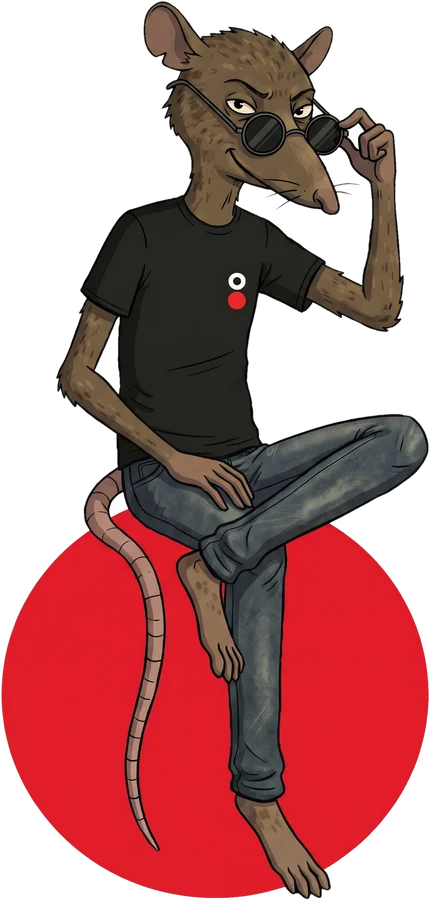
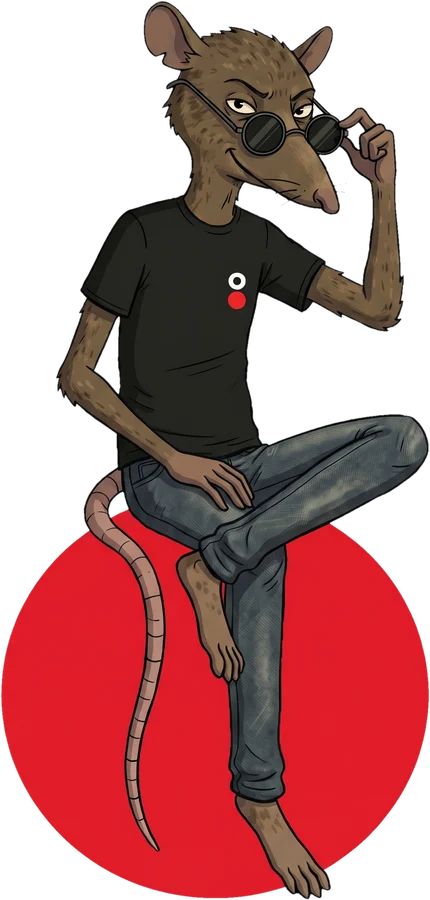
Enlaces: recuadro 'Nueva web' con Espid apoyado; limpiar blancos de Espid con gafas

diff --git a/links/index.html b/links/index.html
@@ -15,7 +15,7 @@
 <link rel="icon" href="../assets/brand/favicon.svg?v=3"><link rel="apple-touch-icon" href="../assets/brand/favicon.svg?v=3">
 <link rel="preload" href="../assets/fonts/GCEpicPro-ExtraBold.woff2" as="font" type="font/woff2" crossorigin>
 <link rel="preload" href="../assets/fonts/ClashDisplay-Regular.woff2" as="font" type="font/woff2" crossorigin>
-<link rel="stylesheet" href="../assets/css/site.css?v=163">
+<link rel="stylesheet" href="../assets/css/site.css?v=164">
 <meta name="robots" content="noindex"><meta name="theme-color" content="#121212"><style>header.top,footer.pie,.wa-flot,.menu-movil{display:none!important}body{background:#121212}</style>
 </head>
 <body>
@@ -38,6 +38,10 @@
     <img class="ln-hero-f" src="../assets/links/portada-360.webp" alt="Daniel Espinoza graba con una cámara 360 el paso de un buggy de rally frente al público" width="1200" height="800" fetchpriority="high">
     <img class="ln-logo" src="../assets/brand/logo-blanco.png?v=3" alt="Pro Motion Sport Marketing" width="900" height="183">
     <p class="ln-kicker">Cuenca · Ecuador</p>
+    <a class="ln-web" href="../index.html?utm_source=instagram&utm_medium=bio&utm_campaign=links">
+      <span class="ln-web-card"><em class="ln-web-tag">¡Nueva web!</em><small>¿Listo? Acá te espero.</small><b>www.promotionec.com</b><span class="ln-web-ir">Entrar <svg viewBox="0 0 24 24" aria-hidden="true"><path d="M7 17 17 7M9 7h8v8" fill="none" stroke="currentColor" stroke-width="2.6" stroke-linecap="round" stroke-linejoin="round"/></svg></span></span>
+      <img src="../assets/img/espid_lean.webp?v=2" alt="" width="498" height="900">
+    </a>
     <h1 class="ln-tag">Un auspicio no se pide, <span>se negocia.</span></h1>
   </header>
 
@@ -89,7 +93,7 @@
   <footer class="ln-pie">
     <a class="ln-osado" href="#" data-wa="Hola Daniel, vengo de tu página de enlaces. Quiero crear oportunidades para mi proyecto." aria-label="Escríbenos por WhatsApp">
       <span class="ln-osado-globo">¿Creamos la tuya? <b>Escríbenos »</b></span>
-      <img src="../assets/img/espid_gafas.webp?v=2" alt="Espid sentado sobre el círculo rojo, bajándose las gafas" width="430" height="900" loading="lazy">
+      <img src="../assets/img/espid_gafas.webp?v=3" alt="Espid sentado sobre el círculo rojo, bajándose las gafas" width="430" height="900" loading="lazy">
     </a>
     <p class="ln-destaca">No esperamos oportunidades. <span>Las creamos.</span></p>
     <nav class="ln-redes" aria-label="Redes sociales">
@@ -106,7 +110,7 @@
     <img src="../assets/img/espid_present.webp?v=2" alt="" width="459" height="900">
   </button>
 </main>
-<script type="application/json" id="ln-guia">{"hero": ["../assets/img/espid_present.webp?v=2", ["¡Hola! Soy Espid. Te muestro todo en un minuto.", "Tócame cuando quieras otra pista."]], "podcast": ["../assets/img/espid_binoculars.webp?v=2", ["Este episodio está buenísimo. Dale play.", "Pablo entrena 5 Ironmans sin ver. Sí, sin ver."]], "dx": ["../assets/img/espid_point.webp?v=2", ["Empieza aquí: 3 pasos y te digo en qué estado está tu proyecto.", "Es gratis y el resultado es tuyo."]], "perfil": ["../assets/img/espid_lean.webp?v=2", ["Elige tu camino, yo te espero aquí.", "¿Deportista, marca o evento?"]], "trabajo": ["../assets/img/espid_bino_sit.webp?v=2", ["Todo esto ya está publicado. Mira las reproducciones.", "Desliza, hay más."]], "aprende": ["../assets/img/espid_calc.webp?v=2", ["Lo gratis también se aprovecha.", "La guía tiene el capítulo 1 libre."]]}</script>
+<script type="application/json" id="ln-guia">{"hero": ["../assets/img/espid_present.webp?v=2", ["Soy Espid. Te acompaño mientras bajas.", "Tócame cuando quieras otra pista."]], "podcast": ["../assets/img/espid_binoculars.webp?v=2", ["Este episodio está buenísimo. Dale play.", "Pablo entrena 5 Ironmans sin ver. Sí, sin ver."]], "dx": ["../assets/img/espid_point.webp?v=2", ["Empieza aquí: 3 pasos y te digo en qué estado está tu proyecto.", "Es gratis y el resultado es tuyo."]], "perfil": ["../assets/img/espid_lean.webp?v=2", ["Elige tu camino, yo te espero aquí.", "¿Deportista, marca o evento?"]], "trabajo": ["../assets/img/espid_bino_sit.webp?v=2", ["Todo esto ya está publicado. Mira las reproducciones.", "Desliza, hay más."]], "aprende": ["../assets/img/espid_calc.webp?v=2", ["Lo gratis también se aprovecha.", "La guía tiene el capítulo 1 libre."]]}</script>
 <script>
 (function(){
   var v=document.querySelector('.ln-video');
@@ -139,10 +143,11 @@
   if('IntersectionObserver' in window){
     var io2=new IntersectionObserver(function(es){es.forEach(function(e){ if(e.isIntersecting && e.target.dataset.guia!==actual) decir(e.target.dataset.guia); });},{rootMargin:'-45% 0px -45% 0px'});
     document.querySelectorAll('[data-guia]').forEach(function(s){io2.observe(s);});
-    var io3=new IntersectionObserver(function(es){ btn.classList.toggle('fuera', es[0].isIntersecting); },{threshold:.15});
-    io3.observe(document.querySelector('.ln-pie'));
+    var vis={};
+    var io3=new IntersectionObserver(function(es){ es.forEach(function(e){ vis[e.target.className]=e.isIntersecting; }); btn.classList.toggle('fuera', Object.keys(vis).some(function(k){return vis[k];})); },{threshold:.15});
+    io3.observe(document.querySelector('.ln-pie')); io3.observe(document.querySelector('.ln-web'));
   }
-  setTimeout(function(){ if(!actual) decir('hero'); },900);
+  
 })();
 </script>
 

diff --git a/assets/css/site.css b/assets/css/site.css
@@ -4029,6 +4029,15 @@ h1.epic,h2.epic,h3.epic{padding-top:.12em}
 .ln-hero .ln-logo{margin-top:-34px;position:relative}
 .ln-logo{width:250px;height:auto;margin:0 auto}
 .ln-kicker{font-size:11px;letter-spacing:.32em;text-transform:uppercase;opacity:.75;margin-top:12px}
+.ln-web{position:relative;display:flex;align-items:flex-start;max-width:340px;margin:10px auto 6px;text-align:left}
+.ln-web-card{position:relative;flex:1;display:flex;flex-direction:column;gap:4px;margin-top:46px;padding:16px 16px 14px;background:var(--hueso);color:var(--grafito);border:2.5px solid var(--grafito);border-radius:14px;box-shadow:5px 5px 0 var(--berry);transition:transform .15s,box-shadow .15s}
+.ln-web:hover .ln-web-card{transform:translate(-2px,-2px);box-shadow:7px 7px 0 var(--berry)}
+.ln-web-tag{position:absolute;left:12px;top:-15px;font-style:normal;font-family:var(--mk);font-size:16px;color:var(--hueso);background:var(--berry);padding:4px 10px 3px;border-radius:6px;transform:rotate(-4deg);animation:ln-flota 3s ease-in-out infinite}
+.ln-web-card small{font-size:13px;opacity:.75;margin-top:6px}
+.ln-web-card b{font-family:var(--epic);font-size:17px;line-height:1.1;white-space:nowrap;padding-top:.12em}
+.ln-web-ir{display:flex;align-items:center;gap:6px;font-size:13px;font-weight:700;color:var(--berry)}
+.ln-web-ir svg{width:16px;height:16px}
+.ln-web img{flex:none;width:80px;height:auto;margin-left:-16px;position:relative}
 .ln-tag{font-family:var(--epic);font-weight:800;text-transform:uppercase;font-size:27px;line-height:1.12;margin:20px auto 0;max-width:360px;padding-top:.12em}
 .ln-tag span{display:inline-block;background:var(--berry);color:var(--hueso);padding:3px 10px 0;transform:rotate(-2deg);margin-top:4px}
 /* episodio sobre resplandor rojo */

diff --git a/academy/index.html b/academy/index.html
@@ -15,7 +15,7 @@
 <link rel="icon" href="../assets/brand/favicon.svg?v=3"><link rel="apple-touch-icon" href="../assets/brand/favicon.svg?v=3">
 <link rel="preload" href="../assets/fonts/GCEpicPro-ExtraBold.woff2" as="font" type="font/woff2" crossorigin>
 <link rel="preload" href="../assets/fonts/ClashDisplay-Regular.woff2" as="font" type="font/woff2" crossorigin>
-<link rel="stylesheet" href="../assets/css/site.css?v=163">
+<link rel="stylesheet" href="../assets/css/site.css?v=164">
 <link rel="preconnect" href="https://fonts.googleapis.com"><link href="https://fonts.googleapis.com/css2?family=Caveat+Brush&display=swap" rel="stylesheet">
 </head>
 <body>

diff --git a/admin/accesos/index.html b/admin/accesos/index.html
@@ -15,7 +15,7 @@
 <link rel="icon" href="../../assets/brand/favicon.svg?v=3"><link rel="apple-touch-icon" href="../../assets/brand/favicon.svg?v=3">
 <link rel="preload" href="../../assets/fonts/GCEpicPro-ExtraBold.woff2" as="font" type="font/woff2" crossorigin>
 <link rel="preload" href="../../assets/fonts/ClashDisplay-Regular.woff2" as="font" type="font/woff2" crossorigin>
-<link rel="stylesheet" href="../../assets/css/site.css?v=163">
+<link rel="stylesheet" href="../../assets/css/site.css?v=164">
 <meta name="robots" content="noindex, nofollow">
 </head>
 <body>

diff --git a/pago/respuesta/index.html b/pago/respuesta/index.html
@@ -15,7 +15,7 @@
 <link rel="icon" href="../../assets/brand/favicon.svg?v=3"><link rel="apple-touch-icon" href="../../assets/brand/favicon.svg?v=3">
 <link rel="preload" href="../../assets/fonts/GCEpicPro-ExtraBold.woff2" as="font" type="font/woff2" crossorigin>
 <link rel="preload" href="../../assets/fonts/ClashDisplay-Regular.woff2" as="font" type="font/woff2" crossorigin>
-<link rel="stylesheet" href="../../assets/css/site.css?v=163">
+<link rel="stylesheet" href="../../assets/css/site.css?v=164">
 <meta name="robots" content="noindex">
 </head>
 <body>

diff --git a/promatch/formulario/index.html b/promatch/formulario/index.html
@@ -15,7 +15,7 @@
 <link rel="icon" href="../../assets/brand/favicon.svg?v=3"><link rel="apple-touch-icon" href="../../assets/brand/favicon.svg?v=3">
 <link rel="preload" href="../../assets/fonts/GCEpicPro-ExtraBold.woff2" as="font" type="font/woff2" crossorigin>
 <link rel="preload" href="../../assets/fonts/ClashDisplay-Regular.woff2" as="font" type="font/woff2" crossorigin>
-<link rel="stylesheet" href="../../assets/css/site.css?v=163">
+<link rel="stylesheet" href="../../assets/css/site.css?v=164">
 <meta name="robots" content="noindex">
 </head>
 <body>

diff --git a/academy/cursos/cobertura-en-tiempo-real/index.html b/academy/cursos/cobertura-en-tiempo-real/index.html
@@ -15,7 +15,7 @@
 <link rel="icon" href="../../../assets/brand/favicon.svg?v=3"><link rel="apple-touch-icon" href="../../../assets/brand/favicon.svg?v=3">
 <link rel="preload" href="../../../assets/fonts/GCEpicPro-ExtraBold.woff2" as="font" type="font/woff2" crossorigin>
 <link rel="preload" href="../../../assets/fonts/ClashDisplay-Regular.woff2" as="font" type="font/woff2" crossorigin>
-<link rel="stylesheet" href="../../../assets/css/site.css?v=163">
+<link rel="stylesheet" href="../../../assets/css/site.css?v=164">
 
 </head>
 <body>

diff --git a/academy/cursos/el-verdadero-valor-del-deporte/index.html b/academy/cursos/el-verdadero-valor-del-deporte/index.html
@@ -15,7 +15,7 @@
 <link rel="icon" href="../../../assets/brand/favicon.svg?v=3"><link rel="apple-touch-icon" href="../../../assets/brand/favicon.svg?v=3">
 <link rel="preload" href="../../../assets/fonts/GCEpicPro-ExtraBold.woff2" as="font" type="font/woff2" crossorigin>
 <link rel="preload" href="../../../assets/fonts/ClashDisplay-Regular.woff2" as="font" type="font/woff2" crossorigin>
-<link rel="stylesheet" href="../../../assets/css/site.css?v=163">
+<link rel="stylesheet" href="../../../assets/css/site.css?v=164">
 
 </head>
 <body>

diff --git a/academy/cursos/perfil-comercial-y-propuesta-de-valor/index.html b/academy/cursos/perfil-comercial-y-propuesta-de-valor/index.html
@@ -15,7 +15,7 @@
 <link rel="icon" href="../../../assets/brand/favicon.svg?v=3"><link rel="apple-touch-icon" href="../../../assets/brand/favicon.svg?v=3">
 <link rel="preload" href="../../../assets/fonts/GCEpicPro-ExtraBold.woff2" as="font" type="font/woff2" crossorigin>
 <link rel="preload" href="../../../assets/fonts/ClashDisplay-Regular.woff2" as="font" type="font/woff2" crossorigin>
-<link rel="stylesheet" href="../../../assets/css/site.css?v=163">
+<link rel="stylesheet" href="../../../assets/css/site.css?v=164">
 
 </head>
 <body>

diff --git a/academy/cursos/produccion-de-contenido-audiovisual/index.html b/academy/cursos/produccion-de-contenido-audiovisual/index.html
@@ -15,7 +15,7 @@
 <link rel="icon" href="../../../assets/brand/favicon.svg?v=3"><link rel="apple-touch-icon" href="../../../assets/brand/favicon.svg?v=3">
 <link rel="preload" href="../../../assets/fonts/GCEpicPro-ExtraBold.woff2" as="font" type="font/woff2" crossorigin>
 <link rel="preload" href="../../../assets/fonts/ClashDisplay-Regular.woff2" as="font" type="font/woff2" crossorigin>
-<link rel="stylesheet" href="../../../assets/css/site.css?v=163">
+<link rel="stylesheet" href="../../../assets/css/site.css?v=164">
 
 </head>
 <body>

diff --git a/academy/cursos/index.html b/academy/cursos/index.html
@@ -15,7 +15,7 @@
 <link rel="icon" href="../../assets/brand/favicon.svg?v=3"><link rel="apple-touch-icon" href="../../assets/brand/favicon.svg?v=3">
 <link rel="preload" href="../../assets/fonts/GCEpicPro-ExtraBold.woff2" as="font" type="font/woff2" crossorigin>
 <link rel="preload" href="../../assets/fonts/ClashDisplay-Regular.woff2" as="font" type="font/woff2" crossorigin>
-<link rel="stylesheet" href="../../assets/css/site.css?v=163">
+<link rel="stylesheet" href="../../assets/css/site.css?v=164">
 
 </head>
 <body>

diff --git a/deportistas/diego-serrano/index.html b/deportistas/diego-serrano/index.html
@@ -15,7 +15,7 @@
 <link rel="icon" href="../../assets/brand/favicon.svg?v=3"><link rel="apple-touch-icon" href="../../assets/brand/favicon.svg?v=3">
 <link rel="preload" href="../../assets/fonts/GCEpicPro-ExtraBold.woff2" as="font" type="font/woff2" crossorigin>
 <link rel="preload" href="../../assets/fonts/ClashDisplay-Regular.woff2" as="font" type="font/woff2" crossorigin>
-<link rel="stylesheet" href="../../assets/css/site.css?v=163">
+<link rel="stylesheet" href="../../assets/css/site.css?v=164">
 
 </head>
 <body>
